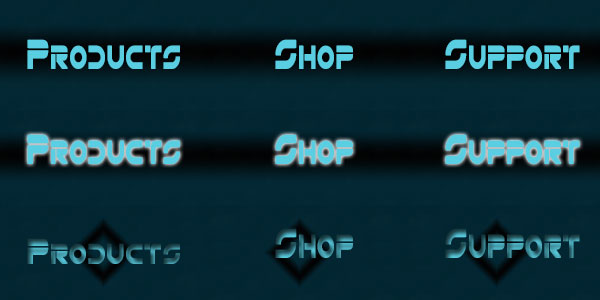
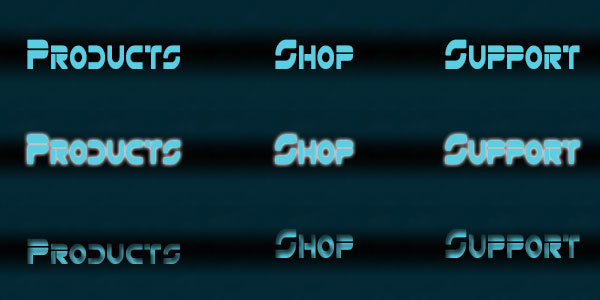
fixed navigation

diff --git a/whipple_kaneisha_lab4/css/main.css b/whipple_kaneisha_lab4/css/main.css
@@ -16,7 +16,7 @@ filter: progid:DXImageTransform.Microsoft.gradient( startColorstr='#000a0c', end
 	}
 	
 p{
-	color: #fff;
+	color: #8fe6fa;
 	}
 	
 dl{
@@ -25,7 +25,7 @@ dl{
 	
 h1,h2{
 	font-family: 'Orbitron', sans-serif;
-	color: #8fe6fa;
+	color: #fff;
 	}
 
 #main {
@@ -60,14 +60,14 @@ section{
 /*----------------- Navigation ---------------*/
 nav ul {
 	list-style: none;
-	width: 300px;
+	width: 600px;
 	padding: 0;
 	overflow: hidden;
 	margin: 0 auto;
 }
 
 nav li{
-	width: 100px;
+	width: 200px;
 	float: left;
 }
 
@@ -81,37 +81,37 @@ nav a{
 	}
 	
 nav a:hover{
-	background-position: 0 -100px; 
+	background-position: -100 100px; 
 }
 
 nav a:active{
-	background-position: 0 -200px; 	
+	background-position: -100 200px; 	
 }
 
 /*----- Shop Btn ------*/
 .shop {
-	background-position: -100px 0;
+	background-position: -200px 0;
 }
 
 .shop:hover{
-	background-position: -100px -100px;
+	background-position: -200px -100px;
 }
 
 .shop:active{
-		background-position: -100px -200px;
+		background-position: -200px -200px;
 }
 
 /*----- Support Btn ------*/
 .support {
-	background-position: -200px 0;
+	background-position: -400px 0;
 }
 
 .support:hover{
-	background-position: -200px -100px;
+	background-position: -400px -100px;
 }
 
 .support:active{
-	background-position: -200px -200px;
+	background-position: -400px -200px;
 }
 	
 
